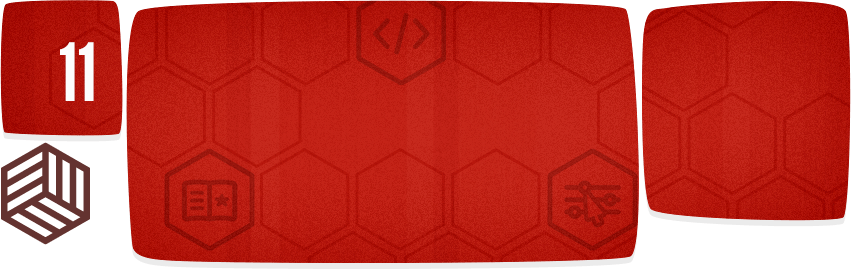
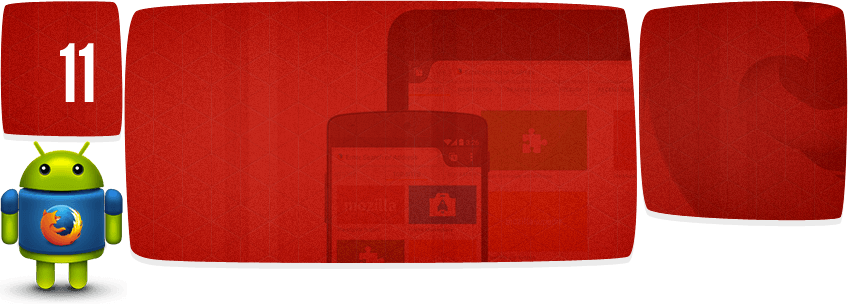
Fix bug 1090590 - updates to history slides

diff --git a/media/css/mozorg/history-slides.less b/media/css/mozorg/history-slides.less
@@ -1436,57 +1436,57 @@
 
 #fact11 .number {
     background-position: -479px -143px;
-    height: 142px;
+    height: 141px;
     margin-left: -141px;
-    width: 125px;
+    width: 124px;
 }
 
 .on #fact11 {
     .number,
     .message,
     .block1,
-    .logo {
+    .droid {
         background: url(/media/img/mozorg/history/fact11-pads.png) no-repeat;
     }
 
     .number {
         .transition-duration(2s);
         background-position: 0 0;
-        height: 139px;
+        height: 141px;
         margin-left: 2200px;
         top: 85px;
-        width: 126px;
+        width: 124px;
     }
 
     .message {
         .transition-duration(2s);
-        background-position: -126px 0;
-        height: 230px;
+        background-position: -124px 0;
+        height: 228px;
         margin-left: 3000px;
         padding: 40px 40px 0 40px;
         top: 48px;
-        width: 436px;
+        width: 434px;
     }
 
     .block1 {
-        width: 211px;
-        height: 227px;
-        background-position: -641px 0;
+        width: 210px;
+        height: 225px;
+        background-position: -638px 0;
         top: 22px;
         margin-top: 90px;
         margin-left: 4000px;
     }
 
-    .logo {
-        background-position: 0 -142px;
+    .droid {
+        background-position: 0 -141px;
         display: block;
-        height: 110px;
+        height: 164px;
         left: 50%;
         margin-left: -2200px;
         opacity: 0;
         position: absolute;
-        top: 31px;
-        width: 90px;
+        top: 55px;
+        width: 124px;
         z-index: 15;
         -webkit-transition: opacity 1s cubic-bezier(.86,.01,.86,.87),
                             margin-left 2s cubic-bezier(.6,-0.08,.6,1);
@@ -1508,8 +1508,8 @@
             margin-top: 0;
         }
 
-        .logo {
-            .animation(fact11-logo-in 2s forwards 1s);
+        .droid {
+            .animation(fact11-droid-in 2s forwards 1s);
             .transition(opacity 1s cubic-bezier(.86,.01,.86,.87));
             opacity: 1;
         }
@@ -1529,31 +1529,31 @@
             margin-top: -60px;
         }
 
-        .logo {
-            .animation(fact11-logo-out 1s forwards);
+        .droid {
+            .animation(fact11-droid-out 1s forwards);
             .transition(opacity 1s cubic-bezier(.86,.01,.86,.87));
             opacity: 0;
         }
     }
 }
 
-@-webkit-keyframes fact11-logo-in {
+@-webkit-keyframes fact11-droid-in {
       0% { margin-left: -2000px; }
-    100% { margin-left: 313px; }
+    100% { margin-left: 268px; }
 }
 
-@keyframes fact11-logo-in {
+@keyframes fact11-droid-in {
       0% { margin-left: -2000px; }
-    100% { margin-left: 313px; }
+    100% { margin-left: 268px; }
 }
 
-@-webkit-keyframes fact11-logo-out {
-      0% { margin-left: 270px; }
+@-webkit-keyframes fact11-droid-out {
+      0% { margin-left: 268px; }
     100% { margin-left: 2000px; }
 }
 
-@keyframes fact11-logo-out {
-      0% { margin-left: 270px; }
+@keyframes fact11-droid-out {
+      0% { margin-left: 268px; }
     100% { margin-left: 2000px; }
 }
 

diff --git a/bedrock/mozorg/templates/mozorg/about/history.html b/bedrock/mozorg/templates/mozorg/about/history.html
@@ -100,9 +100,15 @@
           <span class="number">05</span>
           <div class="message">
             <p>
+          {% if l10n_has_tag('history_nov2014') %}
+            {% trans %}
+              Firefox Add-Ons allow you to customize and take control of your Web experience. Nearly 4 billion of them have been downloaded by users so far.
+            {% endtrans %}
+          {% else %}
             {% trans %}
               Firefox Add-Ons allow you to customize and take control of your Web experience. Over 3 billion of them have been downloaded by users so far.
             {% endtrans %}
+          {% endif %}
             </p>
           </div>
           <span class="block1"></span>
@@ -184,13 +190,19 @@
           <span class="number">11</span>
           <div class="message">
             <p>
+          {% if l10n_has_tag('history_nov2014') %}
+            {% trans %}
+              Firefox for Android brings the Firefox desktop browsing experience to phones and tablets. Available on Google Play, it has been downloaded more than 80 million times.
+            {% endtrans %}
+          {% else %}
             {% trans %}
               Mozilla leads the Open Badges program, an online standard that helps people gain recognition for 21st century skills and unlock new career opportunities.
             {% endtrans %}
+          {% endif %}
             </p>
           </div>
           <span class="block1"></span>
-          <span class="logo"></span>
+          <span class="droid"></span>
           <span class="back"></span>
         </li>
 
